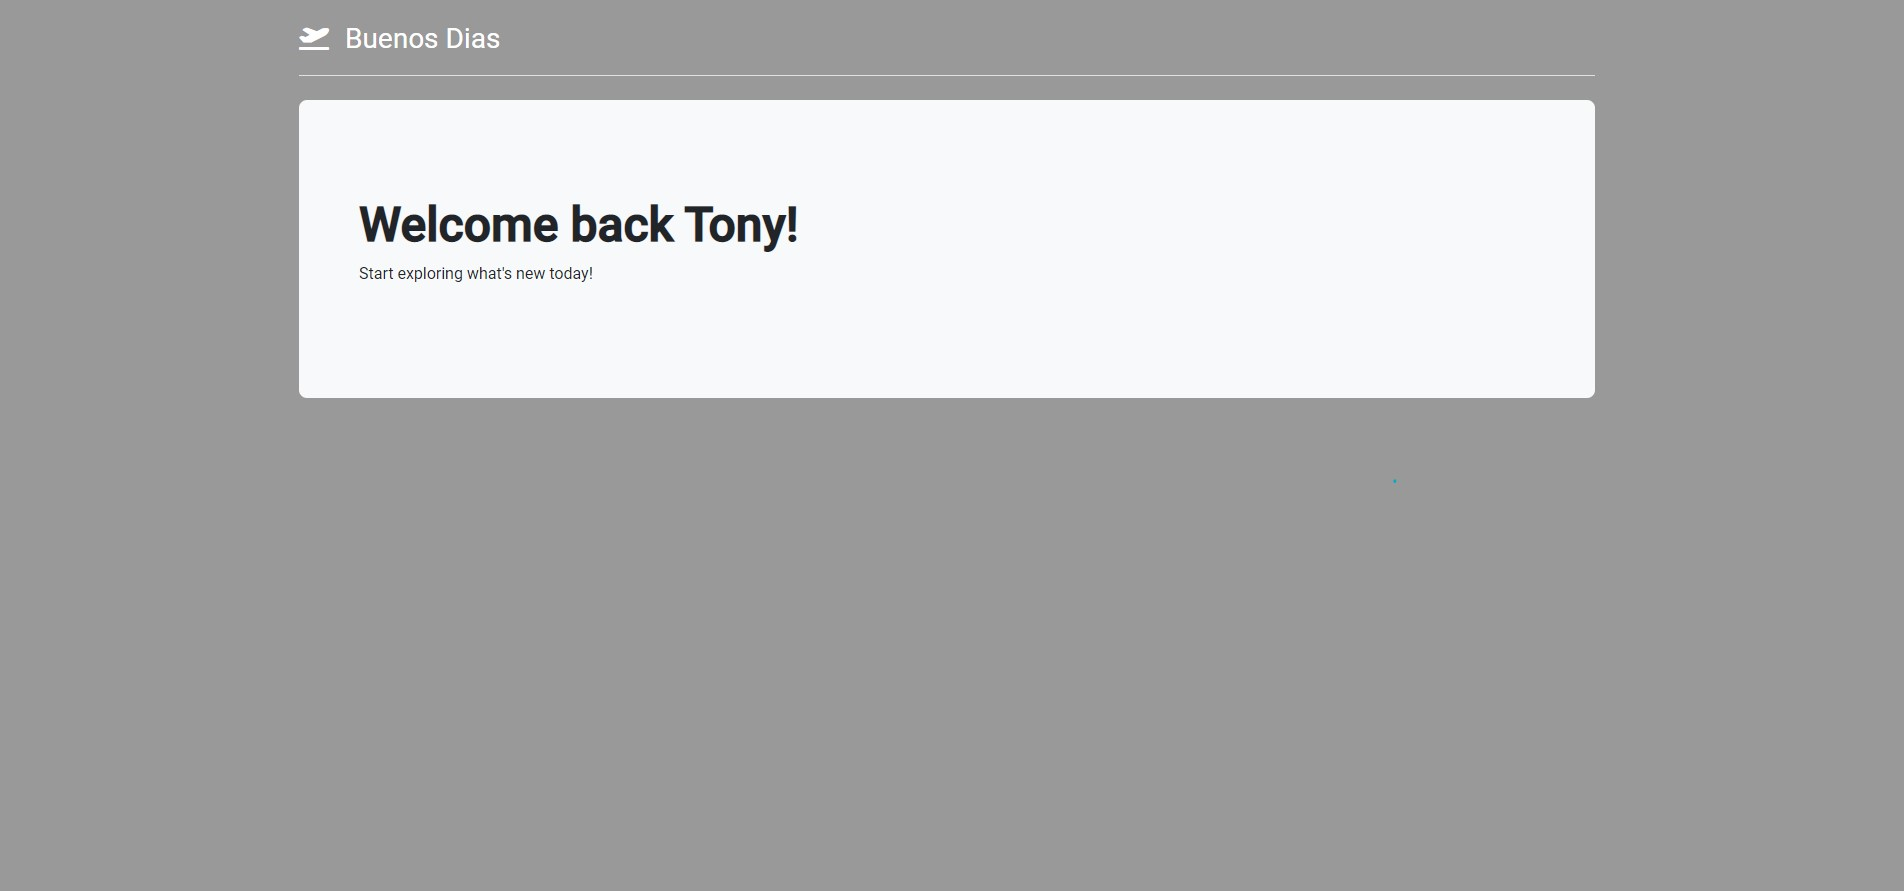
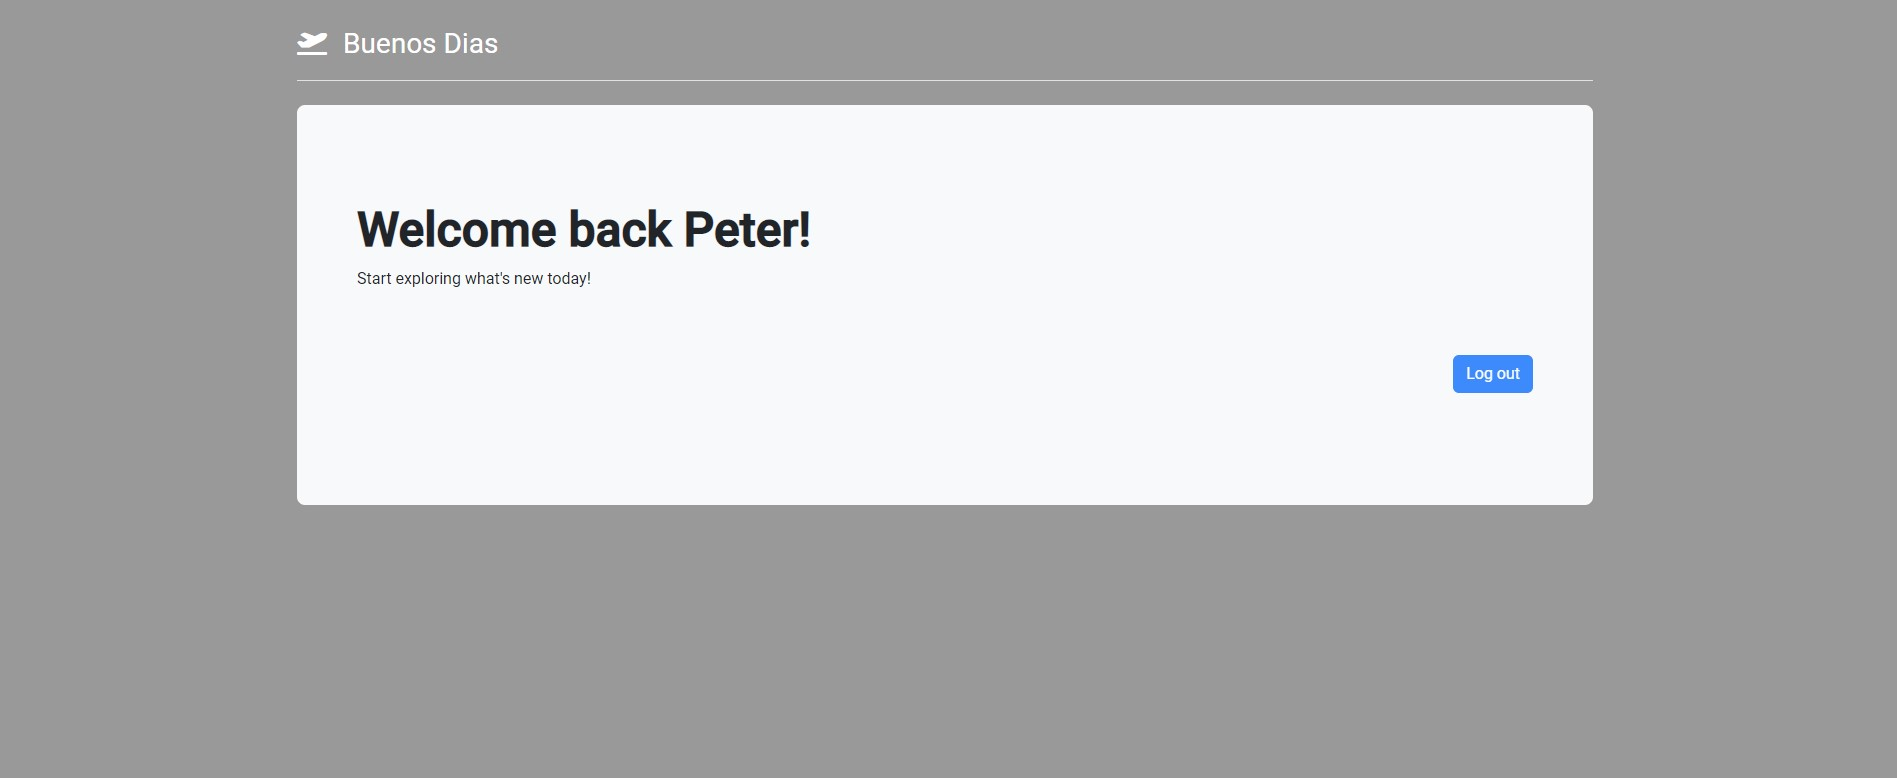
docs: update README for session function

Changed region(s): [[0.1555, 0.4319, 0.8397, 0.6478], [0.1555, 0.0308, 0.8397, 0.1542], [0.1866, 0.2159, 0.4354, 0.3702]]

diff --git a/README.MD b/README.MD
@@ -6,7 +6,7 @@ Users can login and start our service.
 
 - Users can login.
 - If users type wrong email or password, we'll notice them.
-
+- Users can keep login status once they have been verified.
 
 ## Screen Photos
 
@@ -98,6 +98,7 @@ in your terminal.
 - [Mongoose](https://mongoosejs.com/) - MongoDB ODM v6.6.5
 - [express-validator](https://express-validator.github.io/docs/) - server side validation v6.14.2
 - [cookie-parser](https://www.npmjs.com/package/cookie-parser) -v1.4.6
+- [crypto-js](https://www.npmjs.com/package/crypto-js) -v4.1.1
 
 ## Authors
 
